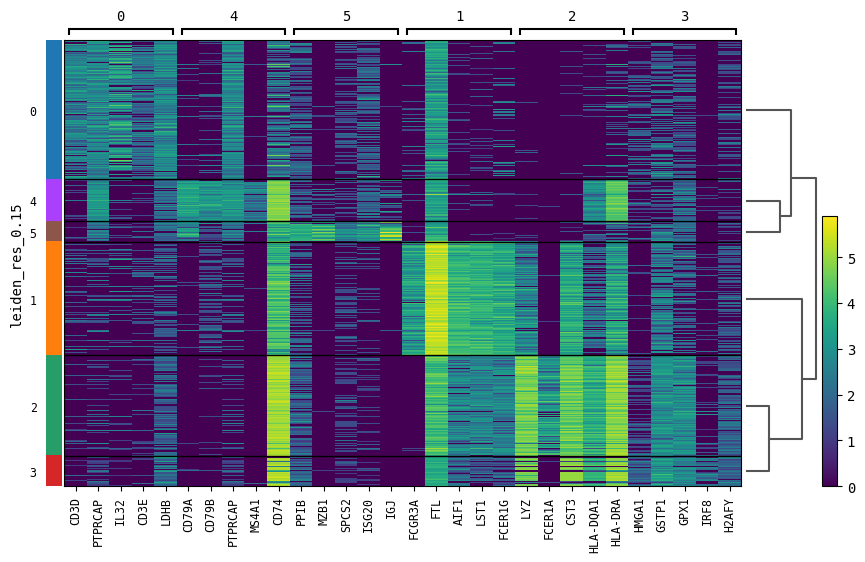
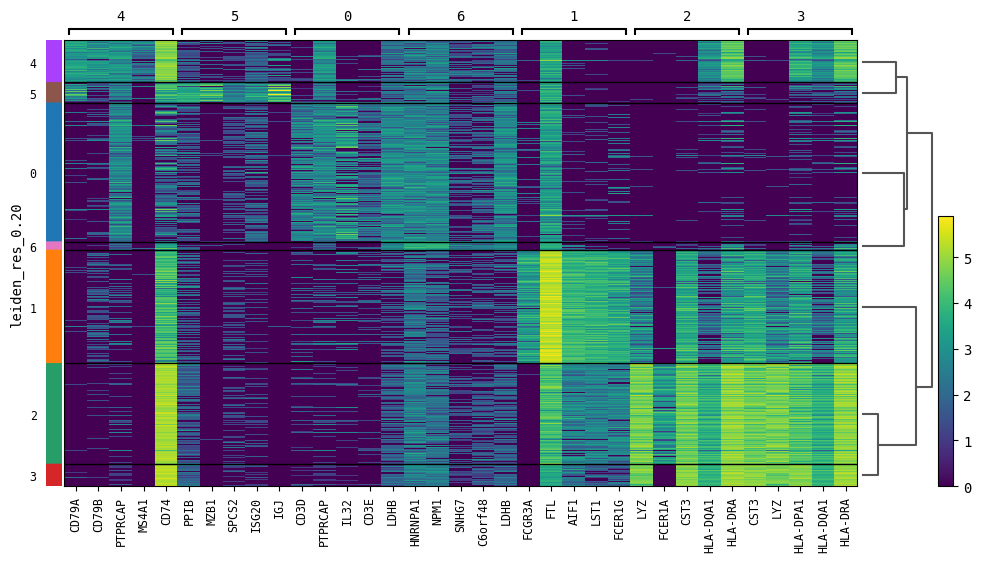
update tutorial output figures

diff --git a/imgs/tutorial.py b/imgs/tutorial.py
@@ -1,3 +1,4 @@
+import os
 import warnings
 
 import matplotlib
@@ -42,51 +43,51 @@ fig, ax = clustree(
     adata,
     tree_columns,
     rename_clusters=False,
-    return_plot=True,
     node_multiplier=8,
-    subplot_kwargs={"figsize": (8, 10)},
+    return_plot=True,
 )
 fig.savefig("clustree_default.png")
 
 # plot the UMAPs for each resolution
-sc.pl.umap(
+fig = sc.pl.umap(
     adata,
     color=tree_columns,
     legend_loc="on data",
     alpha=0.75,
     ncols=3,
-    save="/../../umaps_default.png",
+    return_fig=True,
 )
+fig.savefig("umaps_default.png")
 
 # build tree & plotting (updates adata.obs)
 fig, ax = clustree(
     adata,
     tree_columns,
     rename_clusters=True,
-    return_plot=True,
     node_multiplier=8,
-    subplot_kwargs={"figsize": (8, 10)},
+    return_plot=True,
 )
 fig.savefig("clustree_recolored.png")
 
 # plot the UMAPs for each resolution
-sc.pl.umap(
+fig = sc.pl.umap(
     adata,
     color=tree_columns,
     legend_loc="on data",
     alpha=0.75,
     ncols=3,
-    save="/../../umaps_recolored.png",
+    return_fig=True,
 )
+fig.savefig("umaps_recolored.png")
 
 # plot the top genes per cluster for each resolution
 warnings.simplefilter(action="ignore", category=pd.errors.PerformanceWarning)
+os.makedirs("figures/heatmap", exist_ok=True)
 for i, column in enumerate([top_low, top_medium, top_high]):
     sc.tl.rank_genes_groups(adata, column, n_genes=5)
     sc.tl.dendrogram(adata, column)
     sc.pl.rank_genes_groups_heatmap(
         adata, show_gene_labels=True, save=f"/../../top_genes_heatmap_{i}.png"
     )
-    sc.pl.rank_genes_groups_dotplot(
-        adata, title=column, save=f"/../../top_genes_dotplot_{i}.png"
-    )
+    fig = sc.pl.rank_genes_groups_dotplot(adata, title=column, return_fig=True)
+    fig.savefig(f"top_genes_dotplot_{i}.png")

diff --git a/README.md b/README.md
@@ -107,7 +107,7 @@ Output of `clustree(rename_cluster=False)` and `sc.pl.umap()`:
 <img src="imgs/clustree_default.png" width="750">
 <img src="imgs/umaps_default.png" width="750">
 
-Note how cluster 2 becomes cluster 3 at resolution 0.50.
+Note how cluster 2 becomes cluster 3 at resolution 0.43.
 This makes it difficult to track how changes in resolution impacted the clustering.
 
 
